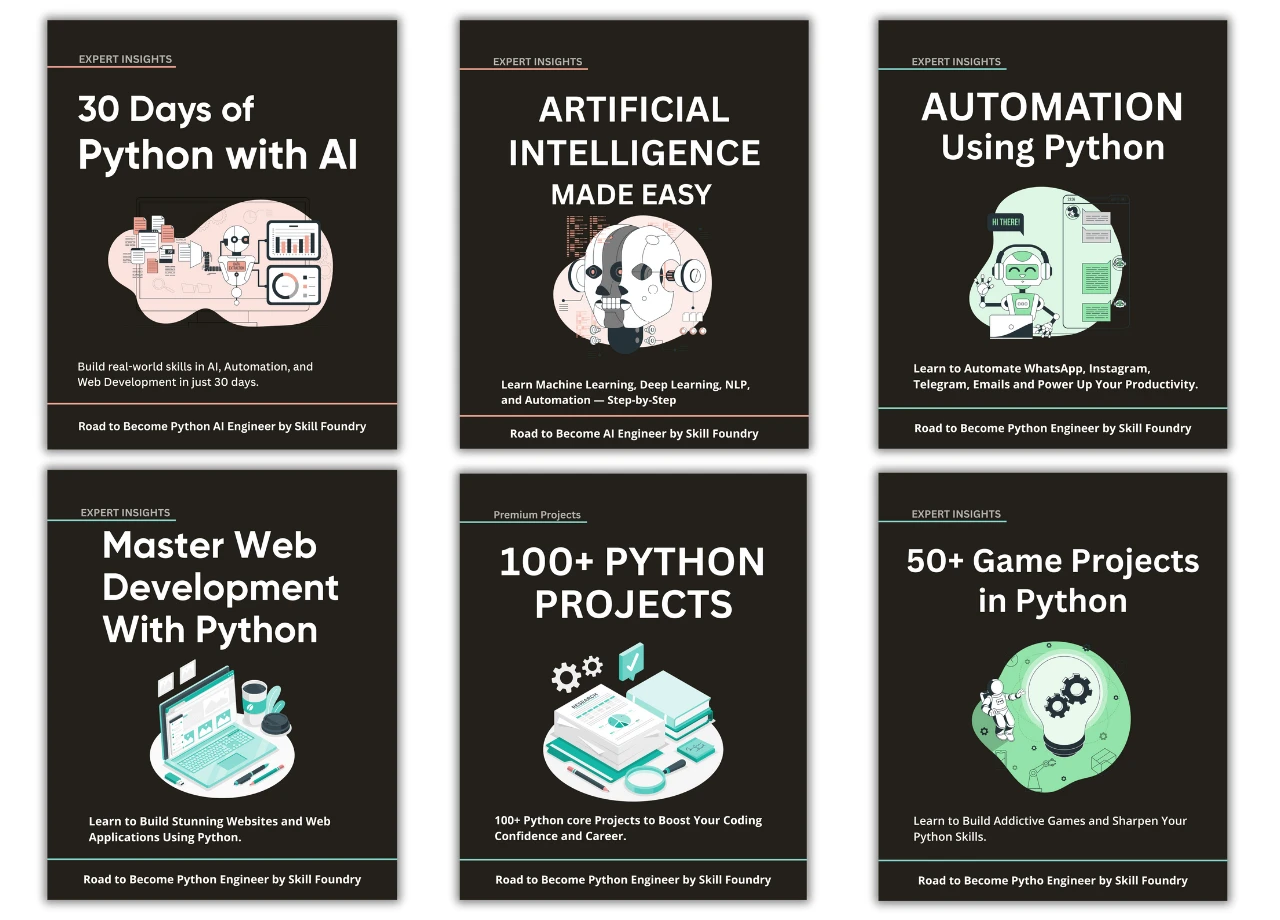
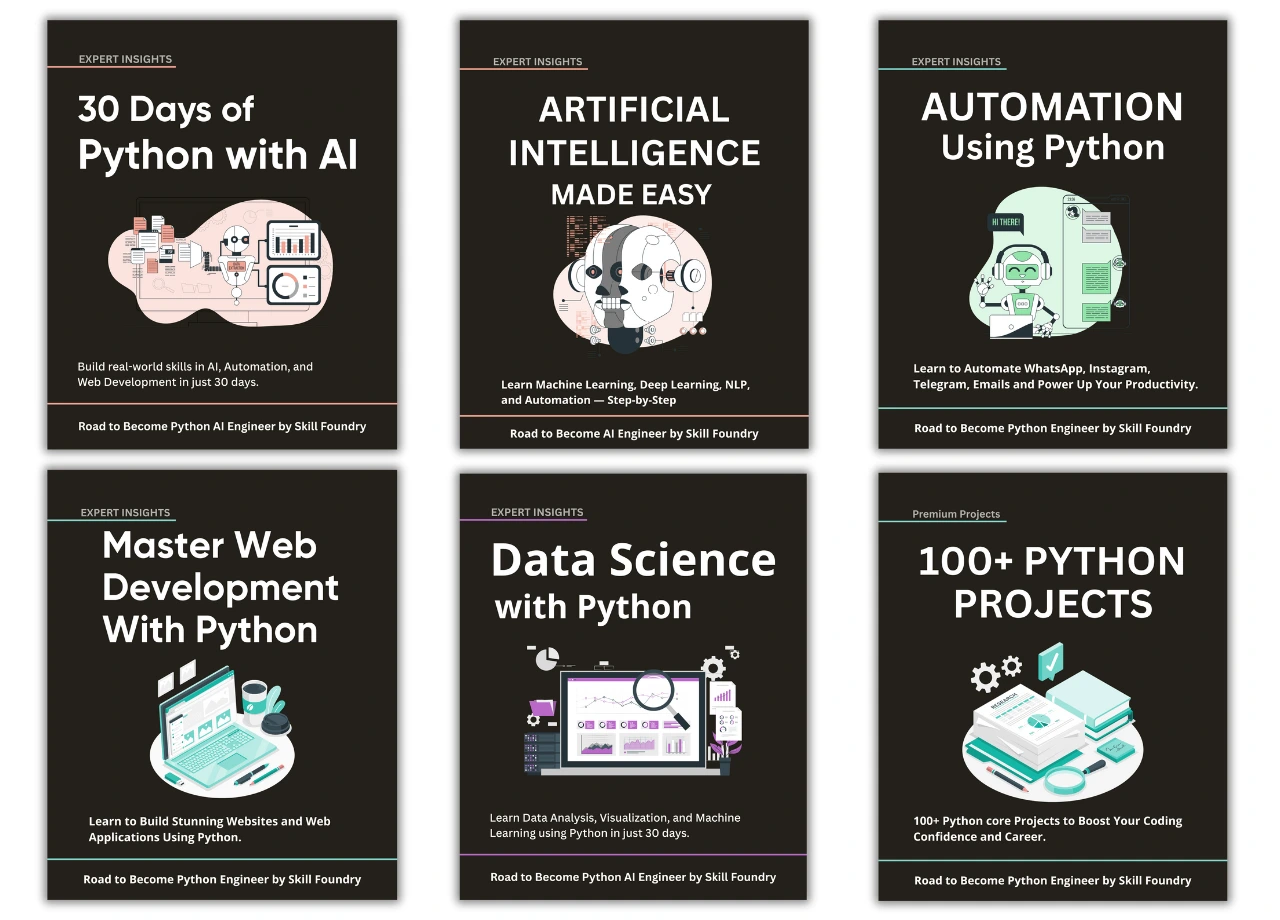
back to 6

diff --git a/src/app/(razorpay-like-pages)/30-days-of-python/page.jsx b/src/app/(razorpay-like-pages)/30-days-of-python/page.jsx
@@ -44,7 +44,7 @@ export default function LandingLayout() {
             {/* ✅ JavaScript Pack Section */}
             <div className="mb-8 px-6">
               <h2 className="font-sans text-2xl lg:text-3xl font-bold text-gray-800 mb-2">
-The Python Mastery Collection: 9 Expert Guides With 150+ Projects
+30 days of Python Mastery 6+ Expert Guides Collection
 
               </h2>
               <div className="w-16 h-1 bg-blue-600 mb-3 md:mb-6" />
@@ -52,7 +52,7 @@ The Python Mastery Collection: 9 Expert Guides With 150+ Projects
               <Image
                 width={1200}
                 height={700}
-                src="/mobile-heroimg.png"
+                src="/last.webp"
                 alt="JavaScript Mastery Pack"
                 className="w-full rounded-lg md:mb-6  mb-3"
                 priority={true}
@@ -73,15 +73,14 @@ The Python Mastery Collection: 9 Expert Guides With 150+ Projects
               {/* <MobileOfferCard/> */}
 
               <p className="text-gray-700 text-base leading-relaxed mb-4">
-                These structured, hands-on Python guides help you master automation, AI, web development, Cyber security, Data Science in python and game building — with 100+ real-world projects to make you truly job-ready.              </p>
+                These structured, hands-on Python guides help you master automation, AI, web development, Data Science in python and game building — with 150+ real-world projects to make you truly job-ready.              </p>
 
 
               <h3 className="font-semibold text-lg text-gray-900 mb-2">What You’ll Get:</h3>
 
               <PythonBookSection />
               <AIBookSection />
-              <DataScience />
-              <CyberBook />
+             <DataScience></DataScience>
               <AutomationPythonBookSection />
               <WebDevPythonBookSection />
               <HTMLCSS />

diff --git a/src/app/(razorpay-like-pages)/30-days-of-python/lib/Cheatsheet.jsx b/src/app/(razorpay-like-pages)/30-days-of-python/lib/Cheatsheet.jsx
@@ -8,7 +8,7 @@ export default function Cheatsheet() {
       {/* Heading and Image */}
       <div className="flex flex-col items-center gap-6 text-center md:text-left">
         <h3 className="text-xl md:text-2xl font-semibold text-gray-800">
-          🐍 Python Cheatsheet
+        Bonus:  🐍 Python Cheatsheet
         </h3>
         <div className="w-full md:w-92 flex-shrink-0">
           <Image
